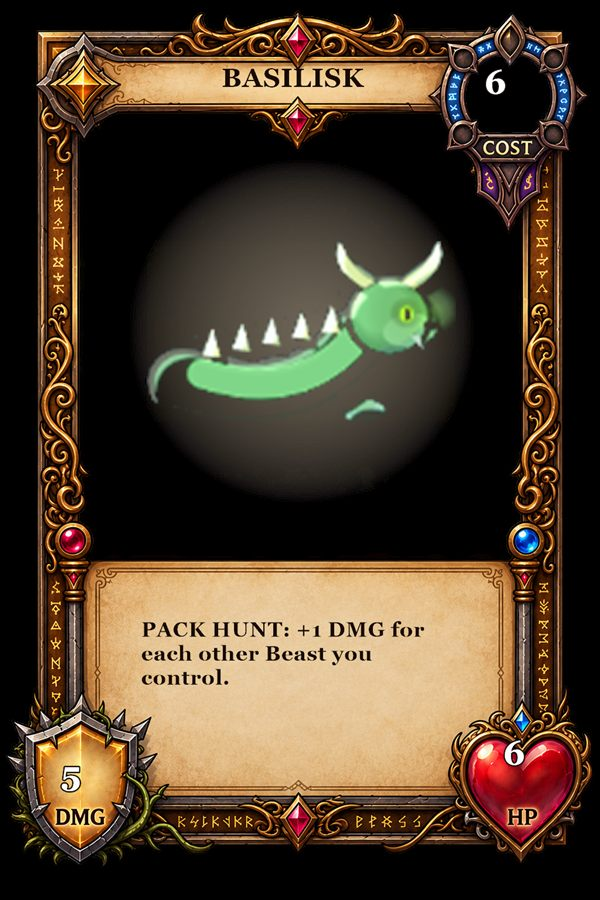
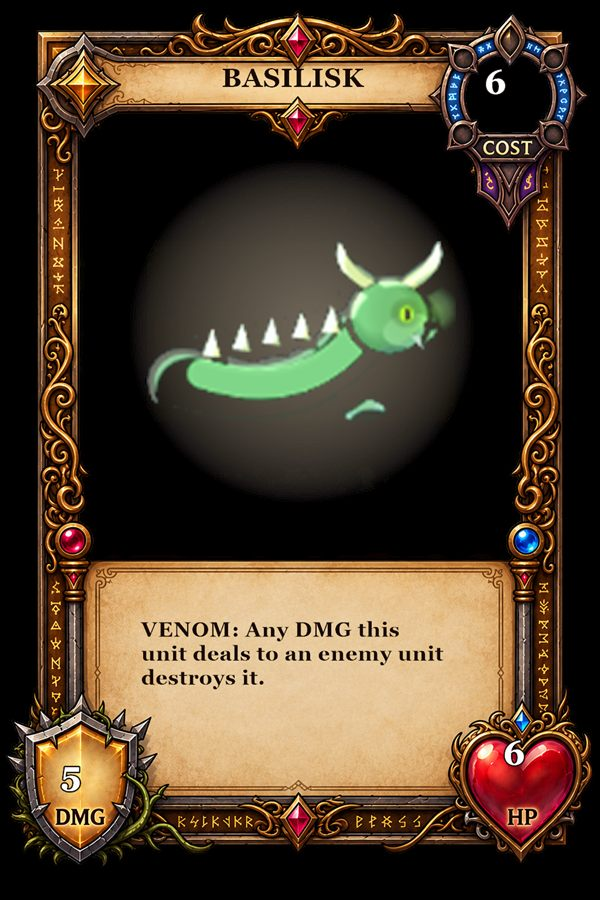
Add new keyword abilities and let decks run duplicate copies
Adds three Hearthstone/MTG-inspired keywords (Shield, Lifesteal, Venom)
and puts two previously-dormant ones (Trample, Siege) to actual use --
both already had full mechanics implemented but no generated card text
anywhere triggered them. Reassigns 23 existing cards' abilities by
name pattern (golems get Shield, vampiric names get Lifesteal, venomous
creatures get Venom, siege engines get Siege instead of Volley, huge
units get Trample) so every faction ends up with at least one card
using the new vocabulary. Card art is regenerated to match, since the
rules text is baked directly into each card's image.

Also moves decks off the "26 unique cards, one copy each" model: cards
costing 3 or less now run 2 copies, like the commons in a real
constructed deck, except each faction's 10 hand-tuned flagship cards,
which stay singleton regardless of cost. Produces 36-37 card decks
(up from 26) fairly consistently across all 10 factions.

Changed region(s): [[0.24, 0.6844, 0.75, 0.7778]]

diff --git a/src/game/rules.js b/src/game/rules.js
@@ -40,6 +40,9 @@ function detectKeywords(text) {
   if (/last breath/.test(t)) kw.push('lastbreath');
   if (/fortify|resolve/.test(t)) kw.push('fortify');
   if (/pack hunt/.test(t)) kw.push('packhunt');
+  if (/shield/.test(t)) kw.push('shield');
+  if (/lifesteal/.test(t)) kw.push('lifesteal');
+  if (/venom/.test(t)) kw.push('venom');
   return kw;
 }
 
@@ -62,15 +65,27 @@ function nextInstanceId() {
   return `inst_${Date.now().toString(36)}_${instanceCounter}`;
 }
 
-// Each deck is simply its faction's 26 unique cards, one copy each, shuffled.
+// Each faction's 10 hand-tuned flagship cards stay singleton regardless of
+// cost (a real deck's "legendary" tier); every other card gets 2 copies if
+// cheap enough (cost <= 3) to behave like a real constructed deck's commons.
+const FLAGSHIP_NAMES = new Set([
+  'Dire Wolf', 'Sparkwright', 'The Creditor', 'Warden', 'Samurai',
+  'Sharpshooter', 'Scavenger-Lord', 'Paladin', 'Berserker', 'Lich',
+]);
+
 export function buildDeck(factionKey) {
   const faction = FACTIONS[factionKey];
   if (!faction) throw new Error('Unknown faction: ' + factionKey);
-  const deck = faction.cards.map(makeCardInstance);
+  const deck = [];
+  for (const card of faction.cards) {
+    const copies = !FLAGSHIP_NAMES.has(card.name) && card.cost <= 3 ? 2 : 1;
+    for (let i = 0; i < copies; i++) deck.push(makeCardInstance(card));
+  }
   return shuffle(deck);
 }
 
 function makeCardInstance(card) {
+  const keywords = detectKeywords(card.text);
   return {
     instanceId: nextInstanceId(),
     cardId: card.id,
@@ -83,7 +98,8 @@ function makeCardInstance(card) {
     maxDefense: card.defense,
     text: card.text,
     image: card.image,
-    keywords: detectKeywords(card.text),
+    keywords,
+    hasShield: keywords.includes('shield'),
     faction: card.id.split('_')[0],
     usedRebirth: false,
     usedRage: false,
@@ -382,16 +398,39 @@ export function attack(game, owner, attackerLane, attackerSlot, targetLane) {
   if (targetLane === 'commander') {
     opponent.hp -= attackPower;
     game.log.push(`${owner}'s ${unit.name} hits the enemy Commander for ${attackPower}.`);
+    if (unit.keywords.includes('lifesteal') && attackPower > 0) {
+      const before = player.hp;
+      player.hp = Math.min(STARTING_HP, player.hp + attackPower);
+      if (player.hp > before) game.log.push(`${owner} heals ${player.hp - before} (Lifesteal).`);
+    }
     checkWinner(game);
     return game;
   }
 
   const targetUnit = opponent.board[targetLane][attackerSlot];
+
+  if (targetUnit.hasShield) {
+    targetUnit.hasShield = false;
+    game.log.push(`${targetUnit.name}'s Shield absorbs the hit from ${unit.name}.`);
+    checkWinner(game);
+    return game;
+  }
+
   let dmg = attackPower;
   if (targetUnit.keywords.includes('phalanx')) dmg = Math.max(0, dmg - 1);
   if (hasFormationToughness(game, opponentOf(owner), targetLane, attackerSlot)) dmg = Math.max(0, dmg - 1);
   targetUnit.defense -= dmg;
   game.log.push(`${owner}'s ${unit.name} hits ${targetUnit.name} for ${dmg}.`);
+
+  if (unit.keywords.includes('lifesteal') && dmg > 0) {
+    const before = player.hp;
+    player.hp = Math.min(STARTING_HP, player.hp + dmg);
+    if (player.hp > before) game.log.push(`${owner} heals ${player.hp - before} (Lifesteal).`);
+  }
+  if (unit.keywords.includes('venom') && dmg > 0 && targetUnit.defense > 0) {
+    targetUnit.defense = 0;
+    game.log.push(`${targetUnit.name} succumbs to Venom.`);
+  }
 
   const survived = targetUnit.defense > 0;
   // Rage is repeatable ("whenever") unless the card's own text says "first
